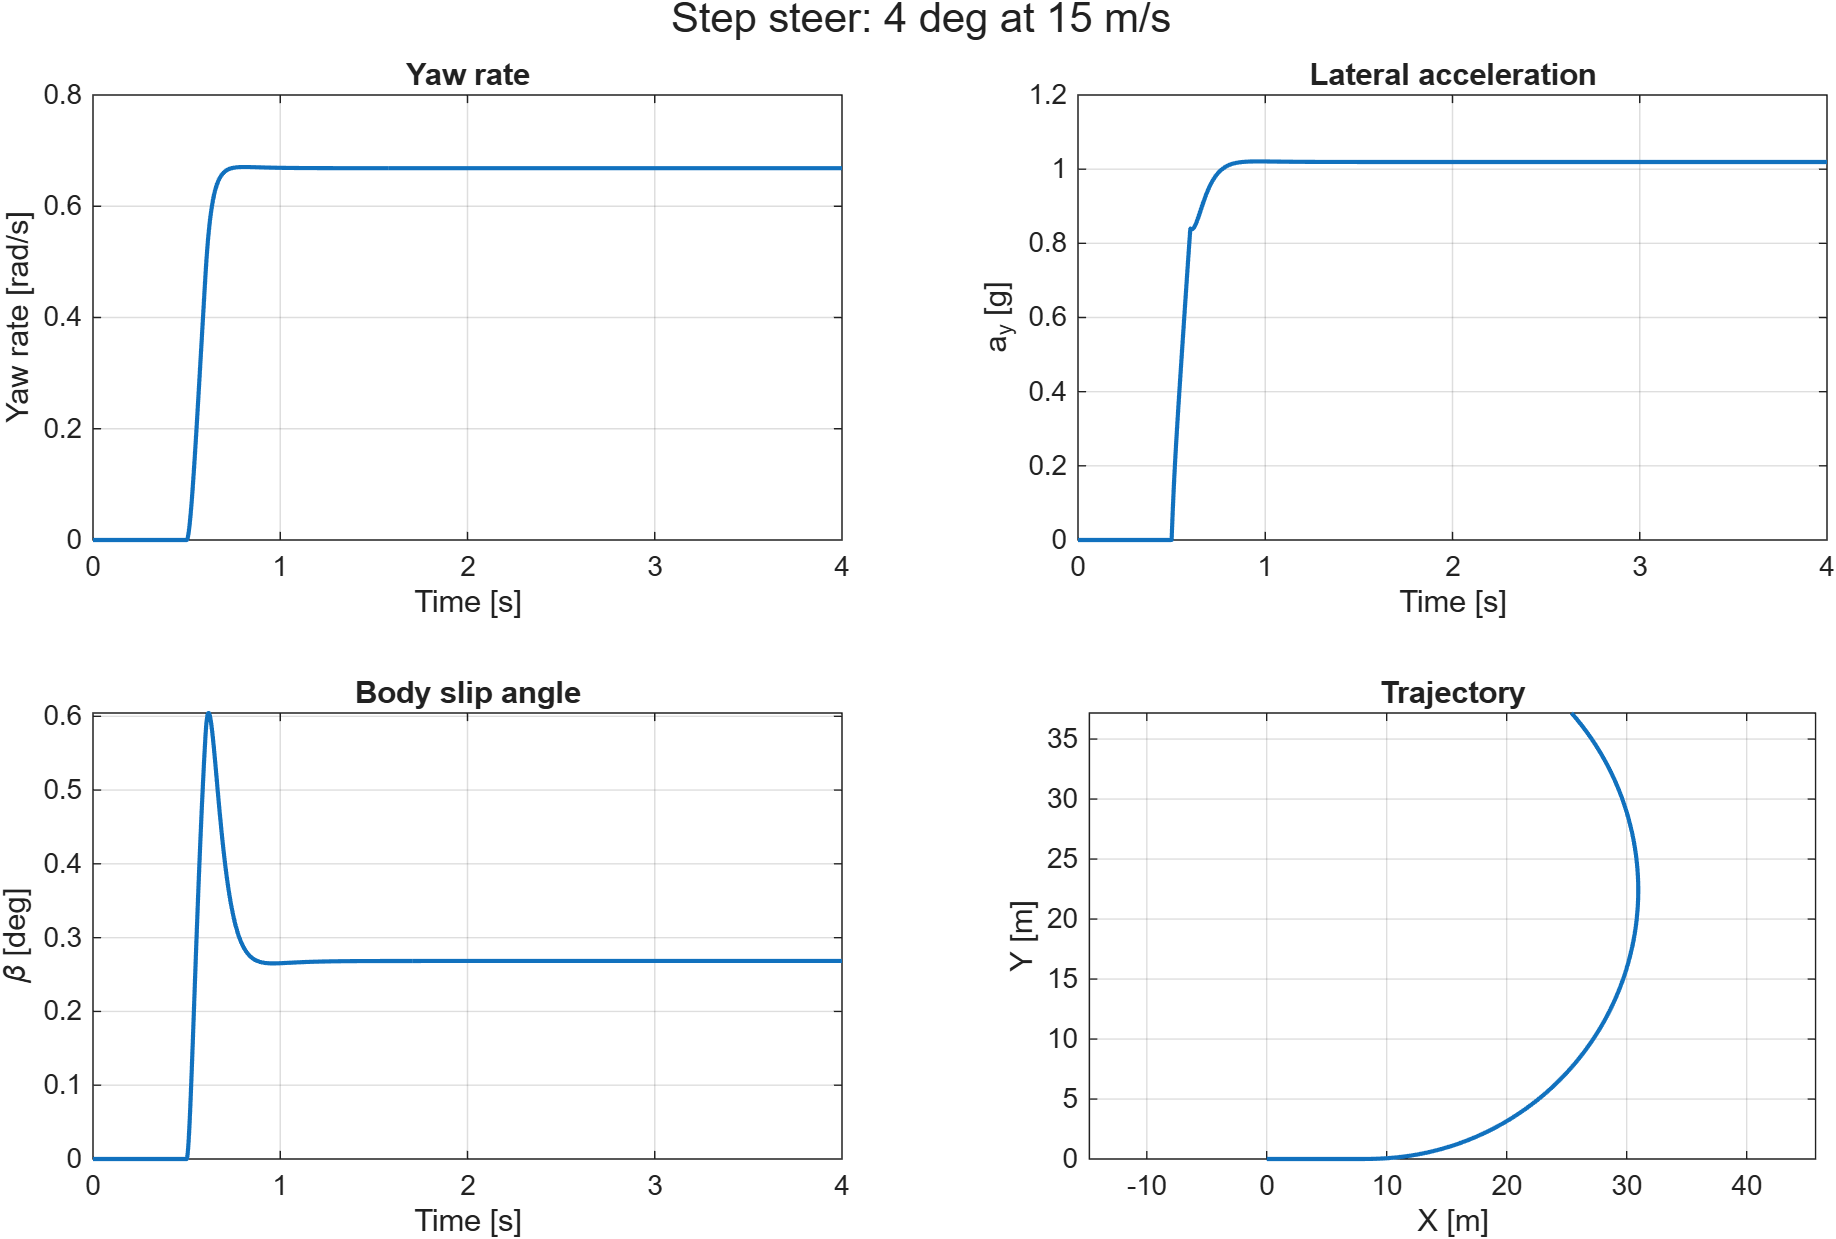
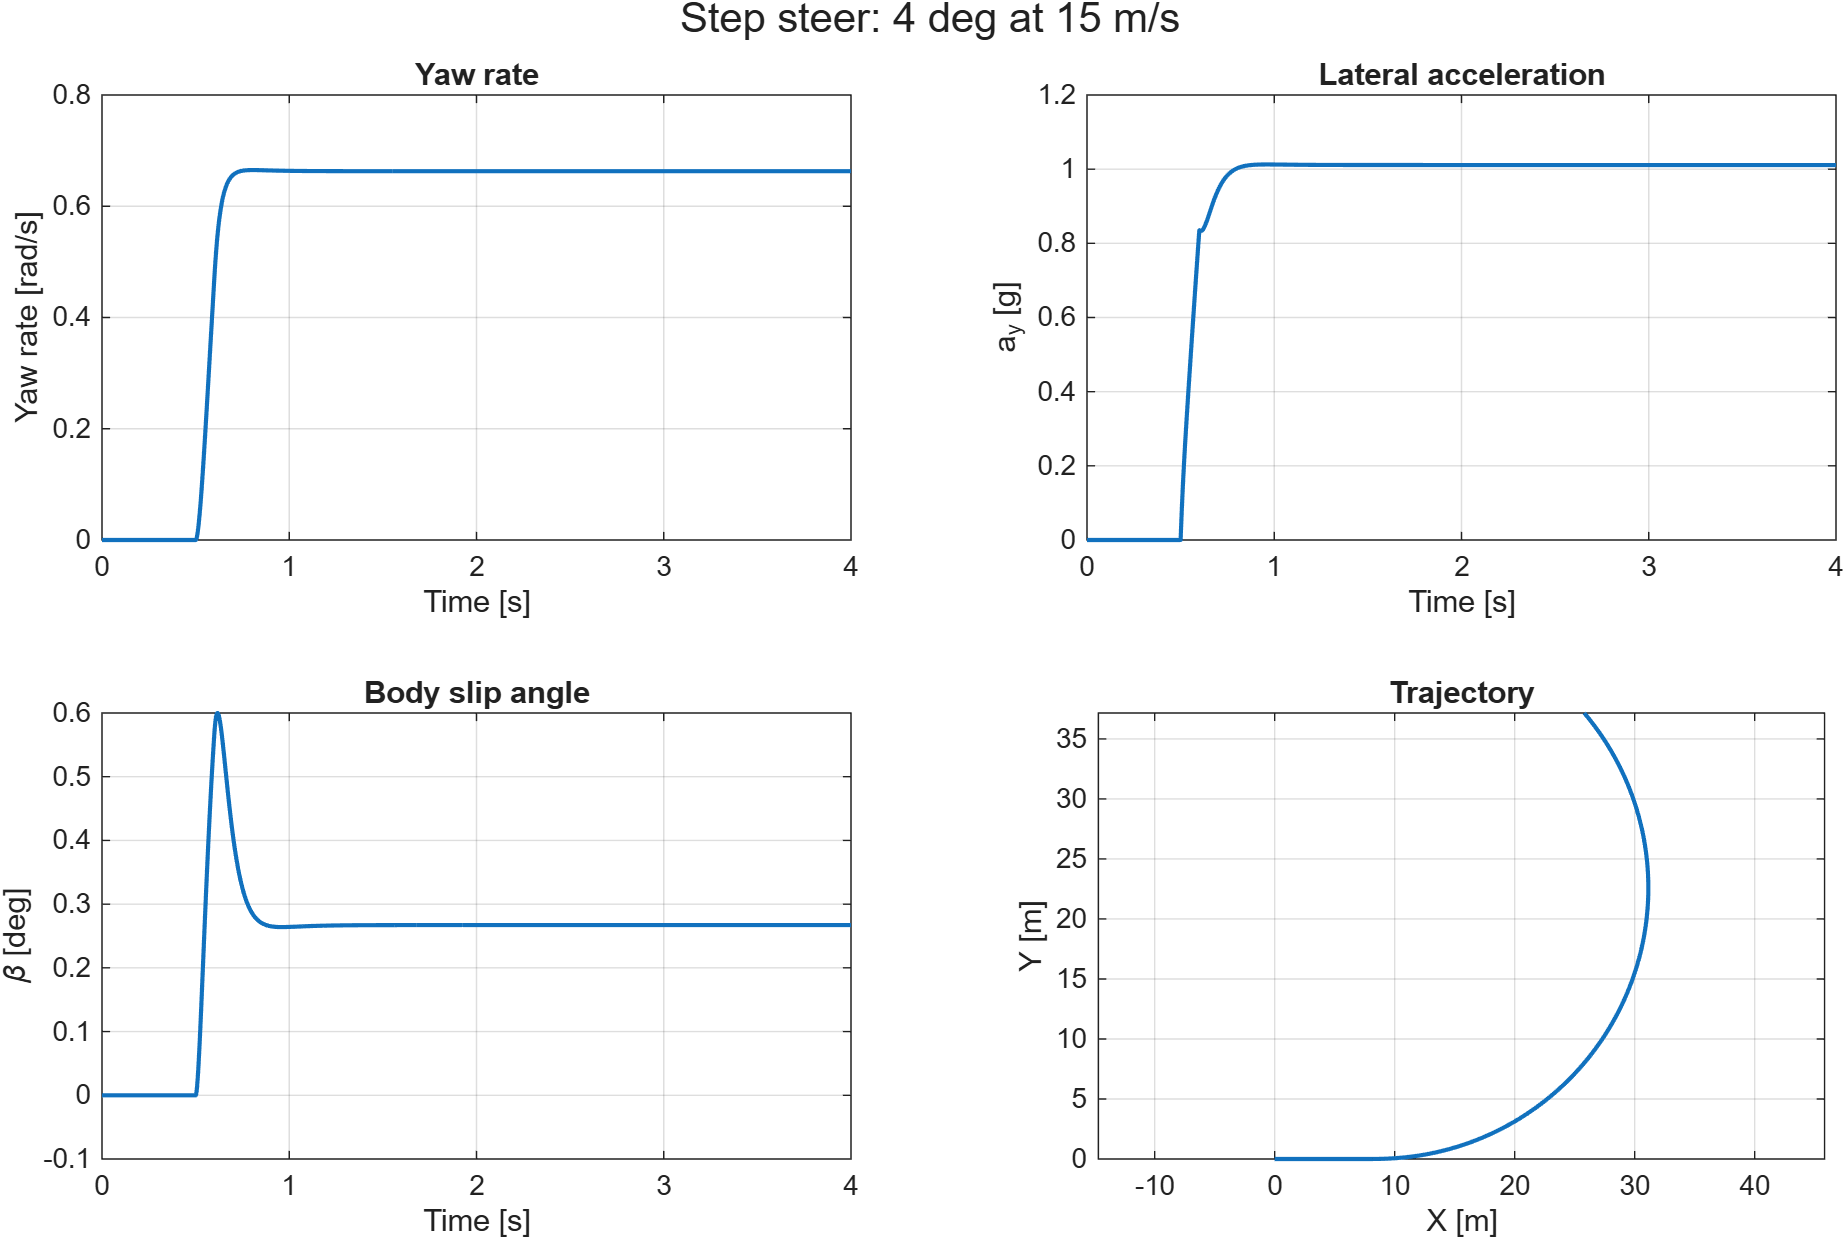
Stage 5: steady-state cornering + Ackermann

diff --git a/test_steadyState.m b/test_steadyState.m
@@ -1,0 +1,89 @@
+% TEST_STEADYSTATE  Stage 5: constant-radius cornering (ISO 4138 style).
+%   Sweeps speed on the FS skidpad radius until the car can no longer hold
+%   the circle. Gives the understeer gradient, max lateral g, which axle
+%   saturates first, and how all of that changes with roll stiffness split.
+clear; clc; close all;
+p = params();
+deg = pi/180;
+R = 9.125;                          % FS skidpad centreline radius [m]
+
+%% 1) Understeer curves for three roll stiffness splits
+Kf_list = [10000 20000 40000];
+fig = figure('Name', 'Steady state', 'Position', [100 100 1100 750]);
+fprintf('Constant radius R = %.3f m\n', R);
+fprintf('%-8s %-9s %-10s %-10s %-10s %-10s\n', 'Kphi_f', 'front %', 'K [deg/g]', 'max ay[g]', 'util F', 'util R');
+
+for Kf = Kf_list
+    q = p; q.Kphi_f = Kf;
+    S = sweep(q, R);
+    ay    = [S.ay] / p.g;
+    delta = [S.delta] / deg;
+    beta  = [S.beta] / deg;
+
+    lin = ay < 0.5;                          % linear range for the gradient
+    c = polyfit(ay(lin), delta(lin), 1);
+    K = c(1);                                % understeer gradient [deg/g]
+
+    lbl = sprintf('K_{\\phi f} = %d (%.0f%% front)', Kf, 100*Kf/(Kf + p.Kphi_r));
+    subplot(2,2,1); hold on; plot(ay, delta, 'LineWidth', 1.5, 'DisplayName', lbl);
+    subplot(2,2,2); hold on; plot(ay, beta,  'LineWidth', 1.5, 'DisplayName', lbl);
+
+    fprintf('%-8d %-9.0f %-10.3f %-10.3f %-10.2f %-10.2f\n', Kf, 100*Kf/(Kf+p.Kphi_r), ...
+        K, ay(end), S(end).utilF, S(end).utilR);
+end
+
+subplot(2,2,1); grid on; yline(p.L/R/deg, '--k', 'Kinematic L/R', 'HandleVisibility', 'off');
+xlabel('a_y [g]'); ylabel('Steer angle \delta [deg]');
+title('Understeer curve (rising = understeer)'); legend('Location', 'northwest');
+subplot(2,2,2); grid on;
+xlabel('a_y [g]'); ylabel('Body slip \beta [deg]'); title('Body slip angle');
+legend('Location', 'southwest');
+
+%% 2) Max lateral g vs roll stiffness distribution
+Kf_sweep = 4000:2000:40000;
+maxAy = zeros(size(Kf_sweep));
+for i = 1:numel(Kf_sweep)
+    q = p; q.Kphi_f = Kf_sweep(i);
+    S = sweep(q, R);
+    maxAy(i) = S(end).ay / p.g;
+end
+frontPct = 100 * Kf_sweep ./ (Kf_sweep + p.Kphi_r);
+[best, ib] = max(maxAy);
+
+subplot(2,1,2);
+plot(frontPct, maxAy, '-o', 'LineWidth', 1.5); grid on; hold on;
+plot(frontPct(ib), best, 'p', 'MarkerSize', 14, 'MarkerFaceColor', 'auto');
+xline(100*p.wf, '--k', 'Static front weight %');
+xlabel('Front roll stiffness distribution [%]'); ylabel('Max a_y [g]');
+title(sprintf('Grip limit vs roll stiffness split (best: %.0f%% front, %.2f g)', frontPct(ib), best));
+
+drawnow;
+exportgraphics(fig, 'steady_state.png', 'Resolution', 200);
+
+fprintf('\nBest roll stiffness split: %.0f%% front (Kphi_f = %d) -> %.2f g\n', ...
+    frontPct(ib), Kf_sweep(ib), best);
+
+%% Checks
+q = p; q.Kphi_f = 10000; K10 = gradientOf(sweep(q, R), p);
+q = p; q.Kphi_f = 40000; K40 = gradientOf(sweep(q, R), p);
+assert(K40 > K10, 'Stiffer front should increase understeer');
+fprintf('Check passed: stiffer front -> more understeer (%.3f -> %.3f deg/g).\n', K10, K40);
+fprintf('All checks passed.\n');
+
+function K = gradientOf(S, p)
+    ay = [S.ay] / p.g; d = [S.delta] * 180/pi;
+    c = polyfit(ay(ay < 0.5), d(ay < 0.5), 1); K = c(1);
+end
+
+%% ---- Local functions ----
+% Sweep speed up until no equilibrium exists
+function S = sweep(p, R)
+    S = [];
+    guess = [];
+    for v = 3:0.02:20
+        ss = steadyState(p, R, v, guess);
+        if ~ss.converged, break; end
+        S = [S; ss]; %#ok<AGROW>
+        guess = [ss.delta; ss.vy];  % warm start the next speed
+    end
+end

diff --git a/steadyState.m b/steadyState.m
@@ -1,0 +1,66 @@
+function ss = steadyState(p, R, v, guess)
+% STEADYSTATE  Steady-state cornering on a constant radius.
+%   ss = steadyState(p, R, v)
+%   ss = steadyState(p, R, v, guess)   guess = [delta; vy] warm start
+%
+%   Finds the steer angle delta and lateral velocity vy that hold the car
+%   on a circle of radius R [m] at forward speed v [m/s], i.e. with yaw
+%   rate r = v/R and zero lateral and yaw acceleration.
+%
+%   Solved with Newton-Raphson (finite-difference Jacobian) on the lateral
+%   and yaw equations of vehicleODE. Longitudinal balance is not enforced
+%   (speed is assumed held by the driver).
+%
+%   ss.converged  : true if an equilibrium was found with all wheels loaded
+%   ss.delta      : steer angle [rad]
+%   ss.beta       : body slip angle [rad]
+%   ss.ay         : lateral acceleration [m/s^2]
+%   ss.Fz, ss.alpha, ss.Fy : per-wheel loads, slip angles, forces [FL FR RL RR]
+%   ss.utilF, ss.utilR     : axle grip utilisation = sum|Fy| / sum(peak Fy)
+
+r = v / R;
+if nargin < 4 || isempty(guess)
+    guess = [p.L / R; p.b * r];              % kinematic steer, zero rear slip
+end
+u = guess(:);
+
+wstate = warning('off', 'loadTransfer:wheelLift');  % trial points may lift a wheel
+cleanup = onCleanup(@() warning(wstate));
+
+res = @(u) residual(p, v, r, u);
+ss.converged = false;
+for it = 1:50
+    F = res(u);
+    if norm(F) < 1e-8
+        ss.converged = true;
+        break
+    end
+    J = zeros(2);
+    h = 1e-7;
+    for k = 1:2
+        du = u; du(k) = du(k) + h;
+        J(:,k) = (res(du) - F) / h;
+    end
+    if rcond(J) < 1e-14, break; end
+    u = u - J \ F;
+end
+
+[~, o] = vehicleODE(0, [v; u(2); r], p, @(t) u(1), v);
+if any(o.Fz < 0), ss.converged = false; end   % model invalid if a wheel lifts
+
+ss.delta = u(1);
+ss.vy    = u(2);
+ss.beta  = atan2(u(2), v);
+ss.ay    = v * r;
+ss.v     = v;
+ss.Fz    = o.Fz;
+ss.alpha = o.alpha;
+ss.Fy    = o.Fy;
+ss.utilF = sum(abs(o.Fy(1:2))) / sum(o.Fypk(1:2));
+ss.utilR = sum(abs(o.Fy(3:4))) / sum(o.Fypk(3:4));
+end
+
+function F = residual(p, v, r, u)
+dx = vehicleODE(0, [v; u(2); r], p, @(t) u(1), v);
+F = dx(2:3);            % lateral and yaw accelerations must be zero
+end

diff --git a/vehicleODE.m b/vehicleODE.m
@@ -12,7 +12,7 @@ function [dx, out] = vehicleODE(t, x, p, steerFn, vref)
 % Simplifications (to revisit later):
 %   - Load transfer uses quasi-static ay = vx*r (steady-state approximation)
 %   - No combined slip: drive force does not reduce lateral grip
-%   - Equal steer on both front wheels (no Ackermann)
+%   - Steering geometry: Ackermann fraction set by p.ackermann (no bump/roll steer)
 
 vx = x(1); vy = x(2); r = x(3);
 vx = max(vx, 1.0);                          % avoid slip-angle singularity at standstill
@@ -30,7 +30,15 @@ Fz = loadTransfer(p, ax_est, ay_est, vx);
 %% Wheel positions relative to CG
 xw = [ p.a,      p.a,     -p.b,     -p.b    ];
 yw = [ p.tf/2,  -p.tf/2,   p.tr/2,  -p.tr/2 ];
-dw = [ delta,    delta,    0,        0      ];   % steer angle per wheel
+% Ackermann: on a turn the inner wheel follows a tighter circle, so it needs
+% more steer. Geometric (100%) Ackermann gives each front wheel the angle
+% that points it along its own circle; p.ackermann blends from parallel (0).
+tdl = tan(delta);
+dL_ack = atan(p.L * tdl / (p.L - p.tf/2 * tdl));   % left wheel
+dR_ack = atan(p.L * tdl / (p.L + p.tf/2 * tdl));   % right wheel
+dL = delta + p.ackermann * (dL_ack - delta);
+dR = delta + p.ackermann * (dR_ack - delta);
+dw = [ dL,       dR,       0,        0      ];   % steer angle per wheel
 
 %% Slip angles: wheel velocity from rigid-body motion, minus steer
 vxw = vx - r .* yw;
@@ -38,7 +46,7 @@ vyw = vy + r .* xw;
 alpha = dw - atan2(vyw, vxw);
 
 %% Tyre forces in wheel frame
-Fyw = tyreLateral(p, alpha, Fz);
+[Fyw, Dpk] = tyreLateral(p, alpha, Fz);
 Fxw = [0, 0, Fdrive/2, Fdrive/2];
 
 %% Rotate into body frame
@@ -62,6 +70,7 @@ if nargout > 1
     out.alpha = alpha;
     out.Fz    = Fz;
     out.Fy    = Fyw;
+    out.Fypk  = Dpk;                    % peak available lateral force per tyre
     out.ay    = Fy / p.m;               % true lateral acceleration
     out.beta  = atan2(vy, vx);          % body slip angle
 end

diff --git a/tyreLateral.m b/tyreLateral.m
@@ -1,6 +1,7 @@
-function Fy = tyreLateral(p, alpha, Fz)
+function [Fy, D] = tyreLateral(p, alpha, Fz)
 % TYRELATERAL  Lateral tyre force, simplified Pacejka with load sensitivity.
-%   Fy = tyreLateral(p, alpha, Fz)
+%   [Fy, D] = tyreLateral(p, alpha, Fz)
+%   D     : peak available lateral force [N] (optional second output)
 %   alpha : slip angle [rad] (scalar or array)
 %   Fz    : vertical load [N] (scalar or same size as alpha)
 %   Fy    : lateral force [N], same sign as alpha

diff --git a/params.m b/params.m
@@ -16,6 +16,9 @@ p.Izz    = 120;     % yaw inertia [kg m^2]                    PLACEHOLDER
 p.a = p.L * (1 - p.wf);   % CG to front axle [m]
 p.b = p.L * p.wf;         % CG to rear axle [m]
 
+%% Steering
+p.ackermann = 1.0;  % 0 = parallel steer, 1 = 100% geometric Ackermann  PLACEHOLDER
+
 %% Roll / suspension
 p.hrcf   = 0.03;    % front roll centre height [m]            PLACEHOLDER
 p.hrcr   = 0.05;    % rear roll centre height [m]             PLACEHOLDER
